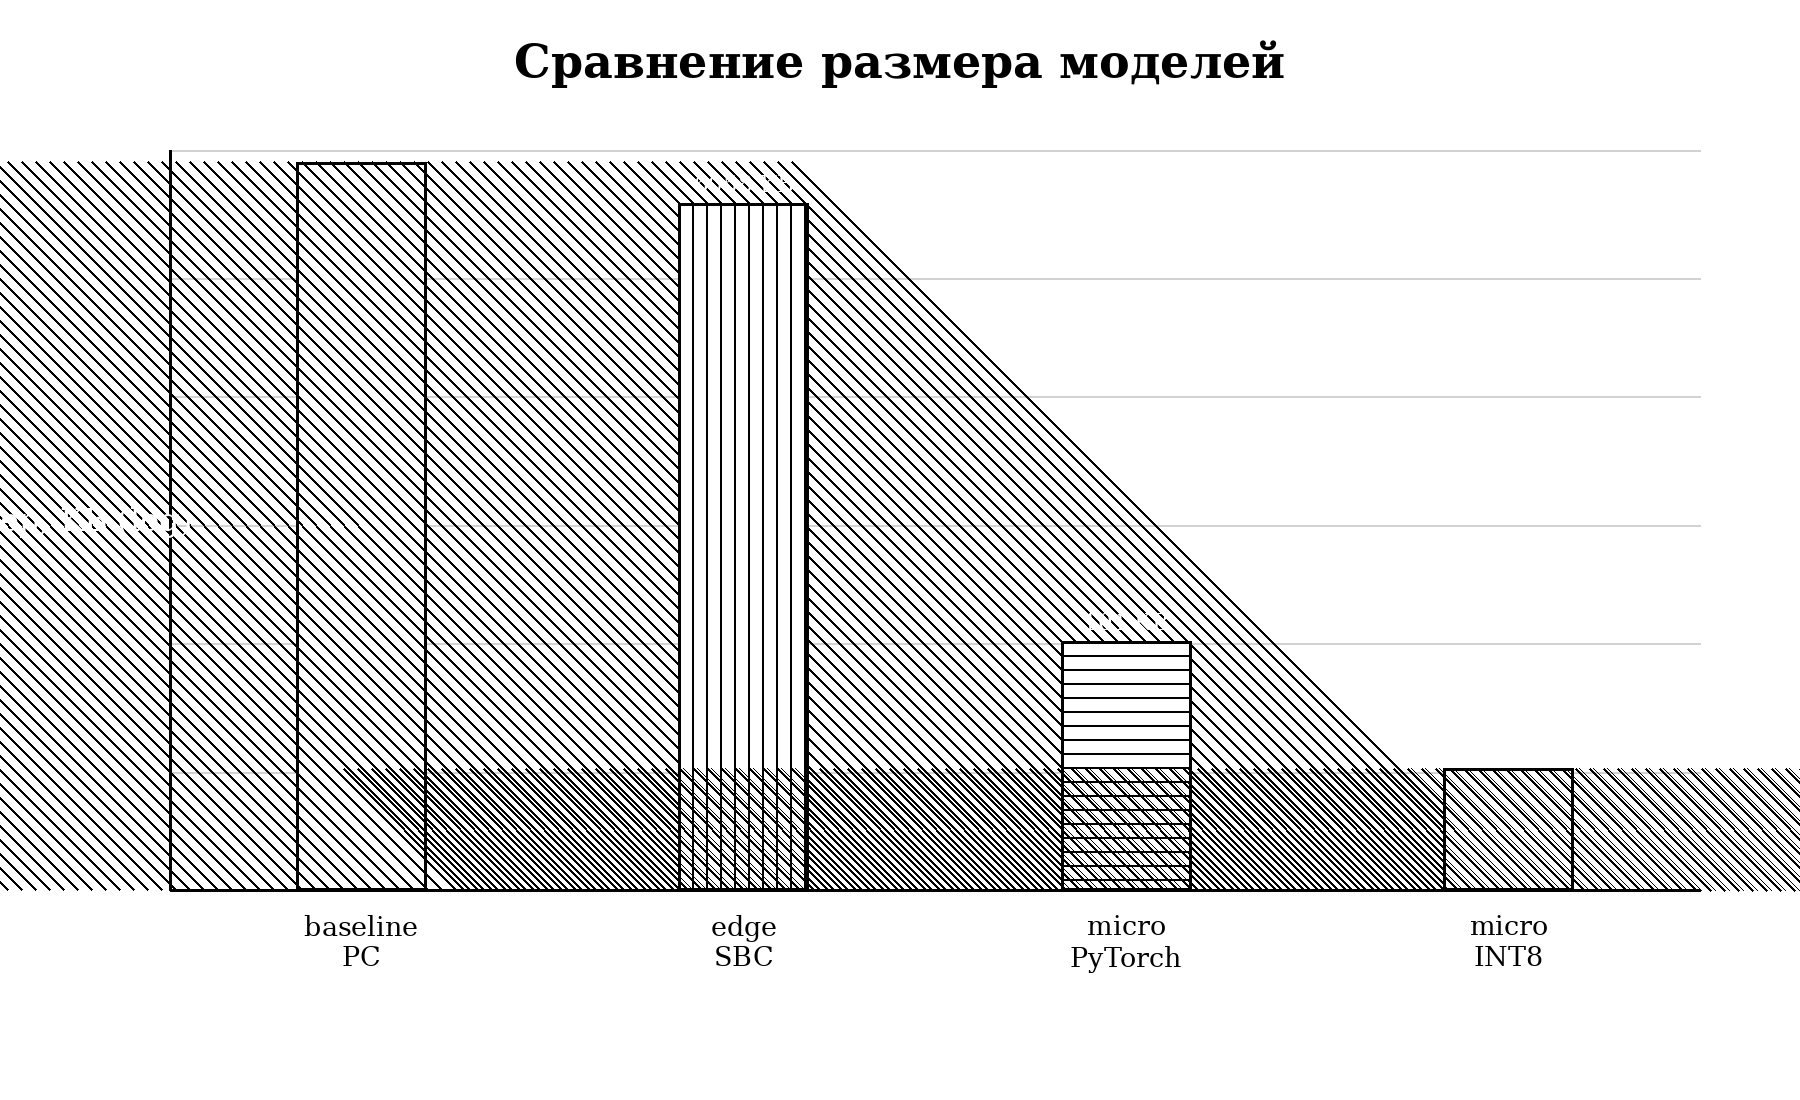
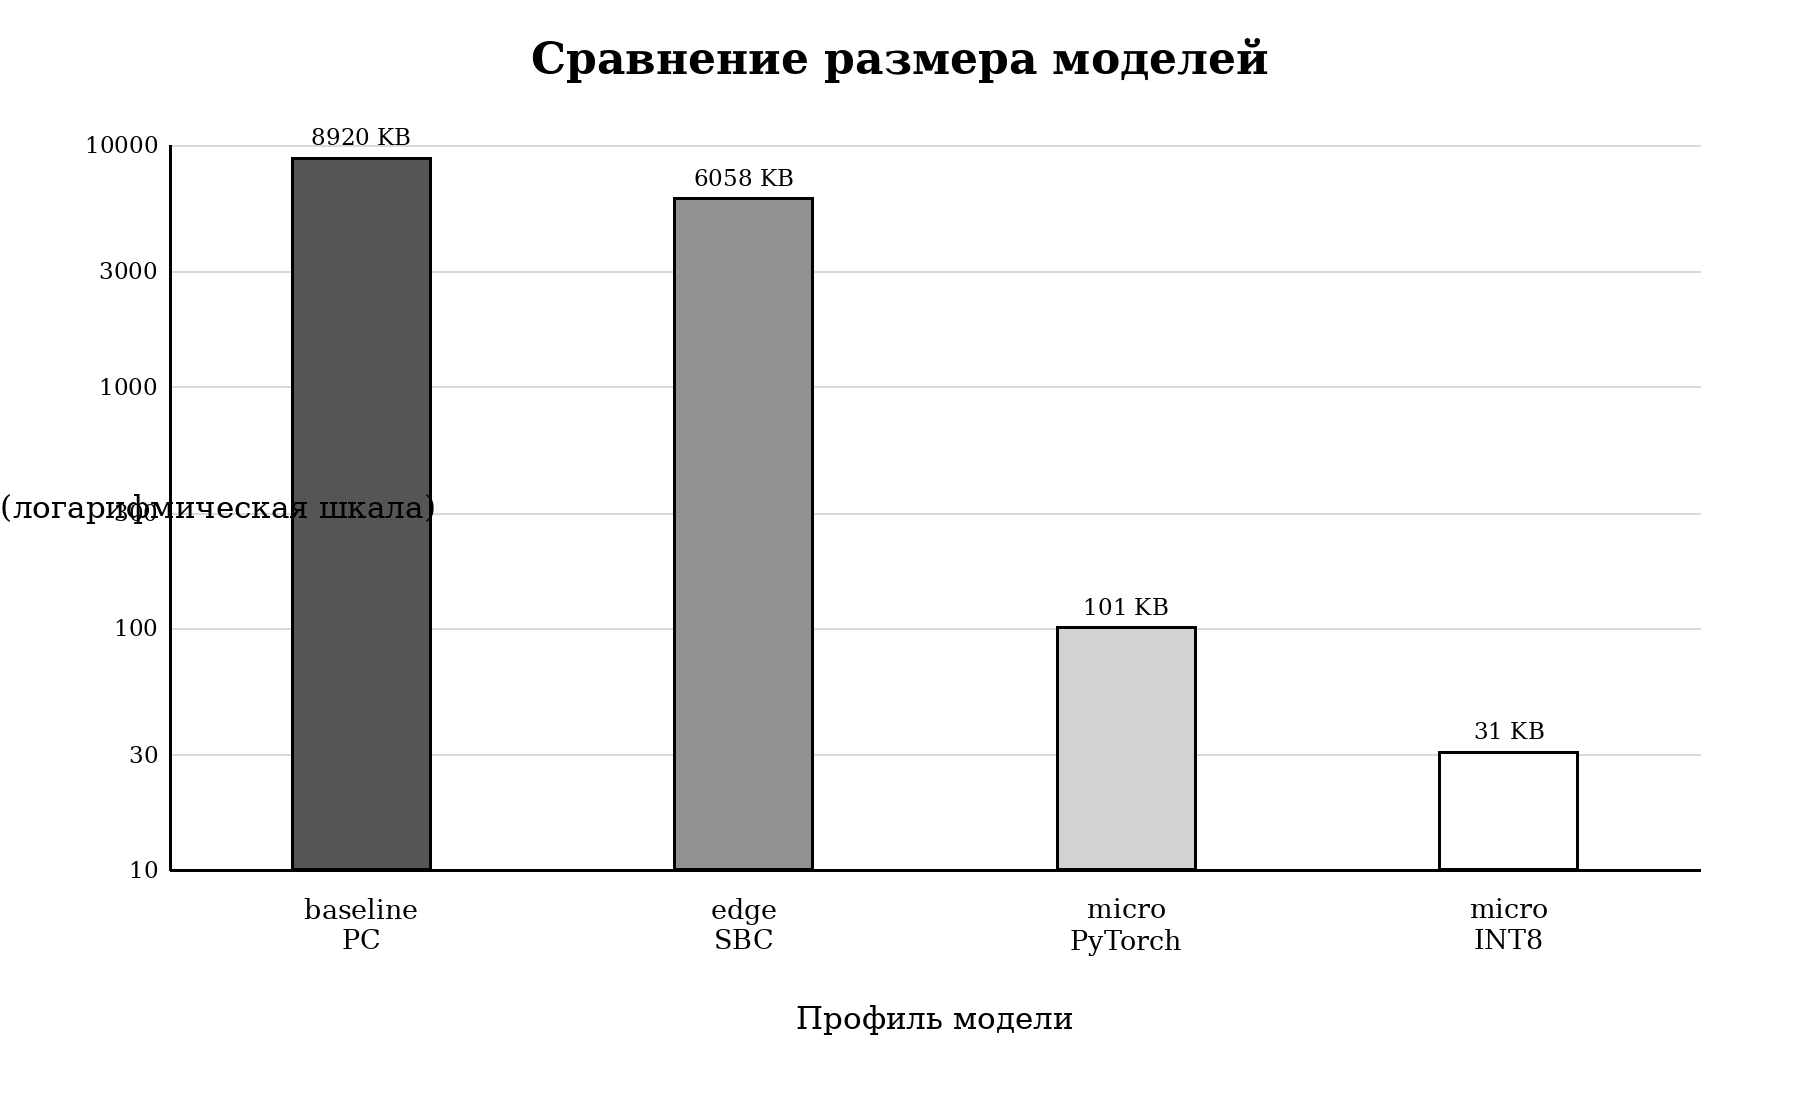
Fix final NIR figures readability

Changed region(s): [[0.0, 0.1236, 1.0, 0.8964], [0.28, 0.0309, 0.7156, 0.0927], [0.4356, 0.8964, 0.5911, 0.9582]]

diff --git a/reports/final_nir/generate_clean_figures.py b/reports/final_nir/generate_clean_figures.py
@@ -1,0 +1,223 @@
+from __future__ import annotations
+
+import math
+from pathlib import Path
+
+from PIL import Image, ImageDraw, ImageFont
+
+
+OUT = Path(__file__).resolve().parent / "figures"
+OUT.mkdir(parents=True, exist_ok=True)
+
+W, H = 1800, 1100
+BLACK = (0, 0, 0)
+GRID = (218, 218, 218)
+GRAY_DARK = (85, 85, 85)
+GRAY_MID = (145, 145, 145)
+GRAY_LIGHT = (210, 210, 210)
+WHITE = (255, 255, 255)
+
+FONT = "/usr/share/fonts/truetype/dejavu/DejaVuSerif.ttf"
+BOLD = "/usr/share/fonts/truetype/dejavu/DejaVuSerif-Bold.ttf"
+TITLE = ImageFont.truetype(BOLD, 44)
+AXIS = ImageFont.truetype(FONT, 31)
+LABEL = ImageFont.truetype(FONT, 27)
+SMALL = ImageFont.truetype(FONT, 23)
+
+MODELS = [
+    ("baseline PC", 0.9689, 0.9741, 0.9783, 8919.5, 4.451),
+    ("edge SBC", 0.9702, 0.9745, 0.9544, 6057.6, 4.267),
+    ("micro PyTorch", 0.9767, 0.9804, 0.9783, 101.3, 0.479),
+    ("micro INT8", 0.9754, 0.9795, 0.9848, 31.0, 0.441),
+]
+
+
+def base(title: str) -> tuple[Image.Image, ImageDraw.ImageDraw]:
+    im = Image.new("RGB", (W, H), WHITE)
+    d = ImageDraw.Draw(im)
+    d.text((W / 2, 38), title, font=TITLE, fill=BLACK, anchor="mt")
+    return im, d
+
+
+def save(im: Image.Image, stem: str) -> None:
+    im.save(OUT / f"{stem}.png", dpi=(300, 300))
+    im.save(OUT / f"{stem}.pdf", "PDF", resolution=300)
+
+
+def wrap_label(label: str) -> str:
+    return label.replace(" ", "\n", 1)
+
+
+def centered_lines(d: ImageDraw.ImageDraw, x: float, y: float, text: str, font: ImageFont.FreeTypeFont) -> None:
+    for i, line in enumerate(text.split("\n")):
+        d.text((x, y + i * 31), line, font=font, fill=BLACK, anchor="mt")
+
+
+def quality() -> None:
+    im, d = base("Сравнение качества моделей на deduplicated split")
+    x0, y0, x1, y1 = 170, 145, W - 100, H - 260
+    ymin, ymax = 0.93, 1.00
+    for tick in [0.93, 0.94, 0.95, 0.96, 0.97, 0.98, 0.99, 1.00]:
+        y = y1 - (tick - ymin) / (ymax - ymin) * (y1 - y0)
+        d.line((x0, y, x1, y), fill=GRID, width=2)
+        d.text((x0 - 12, y), f"{tick:.2f}", font=SMALL, fill=BLACK, anchor="rm")
+    d.line((x0, y1, x1, y1), fill=BLACK, width=3)
+    d.line((x0, y0, x0, y1), fill=BLACK, width=3)
+    group = (x1 - x0) / len(MODELS)
+    bw = 80
+    for i, (name, _, f1, defect_recall, _, _) in enumerate(MODELS):
+        cx = x0 + group * (i + 0.5)
+        for j, (value, fill) in enumerate([(f1, GRAY_LIGHT), (defect_recall, WHITE)]):
+            bx0 = cx - 90 + j * 96
+            bx1 = bx0 + bw
+            by = y1 - (value - ymin) / (ymax - ymin) * (y1 - y0)
+            d.rectangle((bx0, by, bx1, y1), fill=fill, outline=BLACK, width=3)
+            d.text(((bx0 + bx1) / 2, by - 12), f"{value:.3f}", font=SMALL, fill=BLACK, anchor="mb")
+        centered_lines(d, cx, y1 + 28, wrap_label(name), LABEL)
+    d.text(((x0 + x1) / 2, H - 86), "Профиль модели", font=AXIS, fill=BLACK, anchor="mm")
+    d.text((56, (y0 + y1) / 2), "Значение метрики", font=AXIS, fill=BLACK, anchor="mm")
+    lx, ly = W / 2 - 230, H - 165
+    d.rectangle((lx, ly, lx + 45, ly + 28), fill=GRAY_LIGHT, outline=BLACK, width=2)
+    d.text((lx + 60, ly + 14), "F1", font=LABEL, fill=BLACK, anchor="lm")
+    d.rectangle((lx + 170, ly, lx + 215, ly + 28), fill=WHITE, outline=BLACK, width=2)
+    d.text((lx + 230, ly + 14), "defective recall", font=LABEL, fill=BLACK, anchor="lm")
+    save(im, "quality_comparison_clean")
+    save(im, "quality_comparison")
+    save(im, "model_quality_comparison")
+
+
+def size() -> None:
+    im, d = base("Сравнение размера моделей")
+    x0, y0, x1, y1 = 170, 145, W - 100, H - 230
+    ticks = [10, 30, 100, 300, 1000, 3000, 10000]
+    for tick in ticks:
+        y = y1 - (math.log10(tick) - 1) / 3 * (y1 - y0)
+        d.line((x0, y, x1, y), fill=GRID, width=2)
+        d.text((x0 - 12, y), str(tick), font=SMALL, fill=BLACK, anchor="rm")
+    d.line((x0, y1, x1, y1), fill=BLACK, width=3)
+    d.line((x0, y0, x0, y1), fill=BLACK, width=3)
+    fills = [GRAY_DARK, GRAY_MID, GRAY_LIGHT, WHITE]
+    group = (x1 - x0) / len(MODELS)
+    for i, (name, _, _, _, kb, _) in enumerate(MODELS):
+        cx = x0 + group * (i + 0.5)
+        y = y1 - (math.log10(kb) - 1) / 3 * (y1 - y0)
+        d.rectangle((cx - 70, y, cx + 70, y1), fill=fills[i], outline=BLACK, width=3)
+        d.text((cx, y - 12), f"{kb:.0f} KB", font=SMALL, fill=BLACK, anchor="mb")
+        centered_lines(d, cx, y1 + 28, wrap_label(name), LABEL)
+    d.text(((x0 + x1) / 2, H - 82), "Профиль модели", font=AXIS, fill=BLACK, anchor="mm")
+    d.text((56, (y0 + y1) / 2), "Размер модели, KB (логарифмическая шкала)", font=AXIS, fill=BLACK, anchor="mm")
+    save(im, "size_comparison_clean")
+    save(im, "size_comparison_log")
+    save(im, "model_size_comparison")
+
+
+def pareto() -> None:
+    im, d = base("Pareto-компромисс качества и размера модели")
+    x0, y0, x1, y1 = 190, 145, W - 120, H - 220
+    ymin, ymax = 0.970, 0.983
+    for tick in [10, 30, 100, 300, 1000, 3000, 10000]:
+        x = x0 + (math.log10(tick) - 1) / 3 * (x1 - x0)
+        d.line((x, y0, x, y1), fill=GRID, width=1)
+        d.text((x, y1 + 18), str(tick), font=SMALL, fill=BLACK, anchor="mt")
+    for tick in [0.970, 0.975, 0.980]:
+        y = y1 - (tick - ymin) / (ymax - ymin) * (y1 - y0)
+        d.line((x0, y, x1, y), fill=GRID, width=2)
+        d.text((x0 - 12, y), f"{tick:.3f}", font=SMALL, fill=BLACK, anchor="rm")
+    d.rectangle((x0, y0, x1, y1), outline=BLACK, width=3)
+    offsets = [(20, -48), (20, 28), (22, -12), (-240, -48)]
+    for i, (name, _, f1, _, kb, _) in enumerate(MODELS):
+        x = x0 + (math.log10(kb) - 1) / 3 * (x1 - x0)
+        y = y1 - (f1 - ymin) / (ymax - ymin) * (y1 - y0)
+        if name == "micro INT8":
+            d.text((x, y), "★", font=ImageFont.truetype(BOLD, 56), fill=BLACK, anchor="mm")
+        elif name == "edge SBC":
+            d.rectangle((x - 18, y - 18, x + 18, y + 18), fill=WHITE, outline=BLACK, width=3)
+        elif name == "micro PyTorch":
+            d.polygon([(x, y - 24), (x - 22, y + 18), (x + 22, y + 18)], fill=WHITE, outline=BLACK)
+        else:
+            d.ellipse((x - 18, y - 18, x + 18, y + 18), fill=WHITE, outline=BLACK, width=3)
+        ox, oy = offsets[i]
+        d.text((x + ox, y + oy), name, font=LABEL, fill=BLACK, anchor="lm")
+    d.text(((x0 + x1) / 2, H - 78), "Размер модели, KB (логарифмическая шкала)", font=AXIS, fill=BLACK, anchor="mm")
+    d.text((58, (y0 + y1) / 2), "F1", font=AXIS, fill=BLACK, anchor="mm")
+    save(im, "pareto_f1_size_clean")
+    save(im, "pareto_f1_size")
+
+
+def latency() -> None:
+    im, d = base("Proxy-оценка latency")
+    x0, y0, x1, y1 = 170, 145, W - 100, H - 255
+    maxv = 5.0
+    for tick in [0, 1, 2, 3, 4, 5]:
+        y = y1 - tick / maxv * (y1 - y0)
+        d.line((x0, y, x1, y), fill=GRID, width=2)
+        d.text((x0 - 12, y), str(tick), font=SMALL, fill=BLACK, anchor="rm")
+    d.line((x0, y1, x1, y1), fill=BLACK, width=3)
+    d.line((x0, y0, x0, y1), fill=BLACK, width=3)
+    fills = [GRAY_DARK, GRAY_MID, GRAY_LIGHT, WHITE]
+    group = (x1 - x0) / len(MODELS)
+    for i, (name, _, _, _, _, lat) in enumerate(MODELS):
+        cx = x0 + group * (i + 0.5)
+        y = y1 - lat / maxv * (y1 - y0)
+        d.rectangle((cx - 70, y, cx + 70, y1), fill=fills[i], outline=BLACK, width=3)
+        d.text((cx, y - 12), f"{lat:.3f} ms", font=SMALL, fill=BLACK, anchor="mb")
+        centered_lines(d, cx, y1 + 28, wrap_label(name), LABEL)
+    d.text((56, (y0 + y1) / 2), "Latency, ms", font=AXIS, fill=BLACK, anchor="mm")
+    d.text((W / 2, H - 82), "Измерено на текущей машине; не является аппаратным замером на Raspberry Pi/OpenMV", font=LABEL, fill=BLACK, anchor="mm")
+    save(im, "latency_comparison_clean")
+    save(im, "latency_comparison")
+
+
+def triage() -> None:
+    im, d = base("Режим ACCEPT/REVIEW для снижения риска автоматического решения")
+    items = [("coverage", 0.8277), ("review rate", 0.1723), ("accepted acc.", 0.9984), ("accepted def. recall", 0.9977)]
+    x0, y0, x1, y1 = 170, 145, W - 100, H - 260
+    for tick in [0, 0.25, 0.50, 0.75, 1.00]:
+        y = y1 - tick * (y1 - y0)
+        d.line((x0, y, x1, y), fill=GRID, width=2)
+        d.text((x0 - 12, y), f"{tick:.2f}", font=SMALL, fill=BLACK, anchor="rm")
+    d.line((x0, y1, x1, y1), fill=BLACK, width=3)
+    d.line((x0, y0, x0, y1), fill=BLACK, width=3)
+    fills = [GRAY_MID, GRAY_LIGHT, WHITE, (235, 235, 235)]
+    group = (x1 - x0) / len(items)
+    for i, (name, value) in enumerate(items):
+        cx = x0 + group * (i + 0.5)
+        y = y1 - value * (y1 - y0)
+        d.rectangle((cx - 75, y, cx + 75, y1), fill=fills[i], outline=BLACK, width=3)
+        d.text((cx, y - 12), f"{value:.4f}", font=SMALL, fill=BLACK, anchor="mb")
+        centered_lines(d, cx, y1 + 28, name.replace(" ", "\n"), LABEL)
+    d.text((W / 2, H - 78), "Threshold = 0.95; unsafe errors = 1", font=AXIS, fill=BLACK, anchor="mm")
+    d.text((56, (y0 + y1) / 2), "Доля / метрика", font=AXIS, fill=BLACK, anchor="mm")
+    save(im, "triage_summary_clean")
+    save(im, "triage_tradeoff")
+
+
+def confusion() -> None:
+    cm = [[299, 12], [7, 454]]
+    im, d = base("Confusion matrix: micro-edge INT8 exact")
+    x0, y0, cell = 560, 230, 250
+    labels = ["ok", "defective"]
+    shades = [[225, 248], [250, 175]]
+    for i in range(2):
+        for j in range(2):
+            x = x0 + j * cell
+            y = y0 + i * cell
+            shade = shades[i][j]
+            d.rectangle((x, y, x + cell, y + cell), fill=(shade, shade, shade), outline=BLACK, width=4)
+            d.text((x + cell / 2, y + cell / 2), str(cm[i][j]), font=TITLE, fill=BLACK, anchor="mm")
+    for j, label in enumerate(labels):
+        d.text((x0 + j * cell + cell / 2, y0 - 35), f"Pred: {label}", font=LABEL, fill=BLACK, anchor="mb")
+    for i, label in enumerate(labels):
+        d.text((x0 - 38, y0 + i * cell + cell / 2), f"True: {label}", font=LABEL, fill=BLACK, anchor="rm")
+    d.text((W / 2, H - 165), "false OK = 7; false defective = 12", font=AXIS, fill=BLACK, anchor="mm")
+    save(im, "confusion_matrix_micro_int8_clean")
+    save(im, "confusion_matrix_micro_int8")
+
+
+if __name__ == "__main__":
+    quality()
+    size()
+    pareto()
+    latency()
+    triage()
+    confusion()

diff --git a/reports/final_nir/main.tex b/reports/final_nir/main.tex
@@ -211,14 +211,14 @@ Test & 311 & 461 & 772 \\
 
 \begin{figure}[H]
 \centering
-\includegraphics[width=0.92\textwidth]{figures/quality_comparison.png}
+\includegraphics[width=0.92\textwidth]{figures/quality_comparison_clean.png}
 \caption{Сравнение качества моделей на deduplicated split}
 \label{fig:quality}
 \end{figure}
 
 \begin{figure}[H]
 \centering
-\includegraphics[width=0.92\textwidth]{figures/size_comparison_log.png}
+\includegraphics[width=0.92\textwidth]{figures/size_comparison_clean.png}
 \caption{Сравнение размеров моделей в KB, логарифмическая шкала}
 \label{fig:size}
 \end{figure}
@@ -240,14 +240,14 @@ TFLite INT8-модель использует входной тензор фор
 
 \begin{figure}[H]
 \centering
-\includegraphics[width=0.86\textwidth]{figures/pareto_f1_size.png}
+\includegraphics[width=0.86\textwidth]{figures/pareto_f1_size_clean.png}
 \caption{Pareto-анализ: F1 и размер модели}
 \label{fig:pareto}
 \end{figure}
 
 \begin{figure}[H]
 \centering
-\includegraphics[width=0.86\textwidth]{figures/latency_comparison.png}
+\includegraphics[width=0.86\textwidth]{figures/latency_comparison_clean.png}
 \caption{Сравнение latency, proxy-измерение}
 \label{fig:latency}
 \end{figure}
@@ -275,7 +275,7 @@ Threshold & Coverage & Review rate & Accepted acc. & Accepted def. recall & Unsa
 
 \begin{figure}[H]
 \centering
-\includegraphics[width=0.86\textwidth]{figures/triage_tradeoff.png}
+\includegraphics[width=0.86\textwidth]{figures/triage_summary_clean.png}
 \caption{Компромисс confidence-based triage для INT8 micro-edge модели}
 \label{fig:triage}
 \end{figure}
@@ -379,7 +379,7 @@ metrics, tables, exact TFLite FP32/INT8, LaTeX/PDF НИР.
 
 \begin{figure}[H]
 \centering
-\includegraphics[width=0.72\textwidth]{figures/confusion_matrix_micro_int8.png}
+\includegraphics[width=0.72\textwidth]{figures/confusion_matrix_micro_int8_clean.png}
 \caption{Confusion matrix для exact TFLite INT8 модели на clean test}
 \label{fig:cm}
 \end{figure}

diff --git a/RELEASE_SUMMARY.md b/RELEASE_SUMMARY.md
@@ -8,3 +8,7 @@
 - Dedup protocol: `experiments/research_20260601/scientific_strengthening/dedup_split_protocol/`
 
 Snapshot excludes the Kaggle dataset, virtual environment, raw/processed data, large model weights, and logs.
+
+## Figure readability update
+
+Final NIR figures were regenerated in a clean black-and-white academic style: grayscale fills, thin grid, no dense hatching. Learning curves are not included in the final PDF.